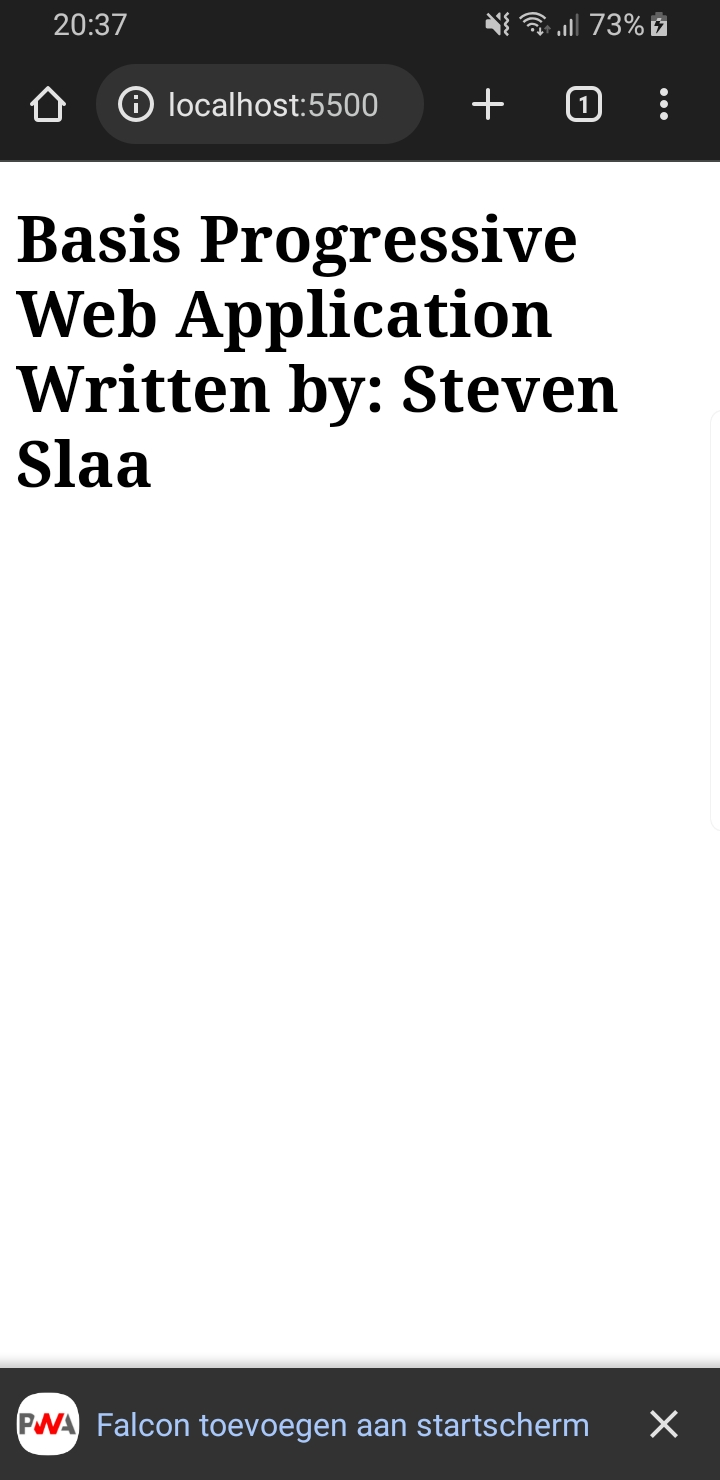
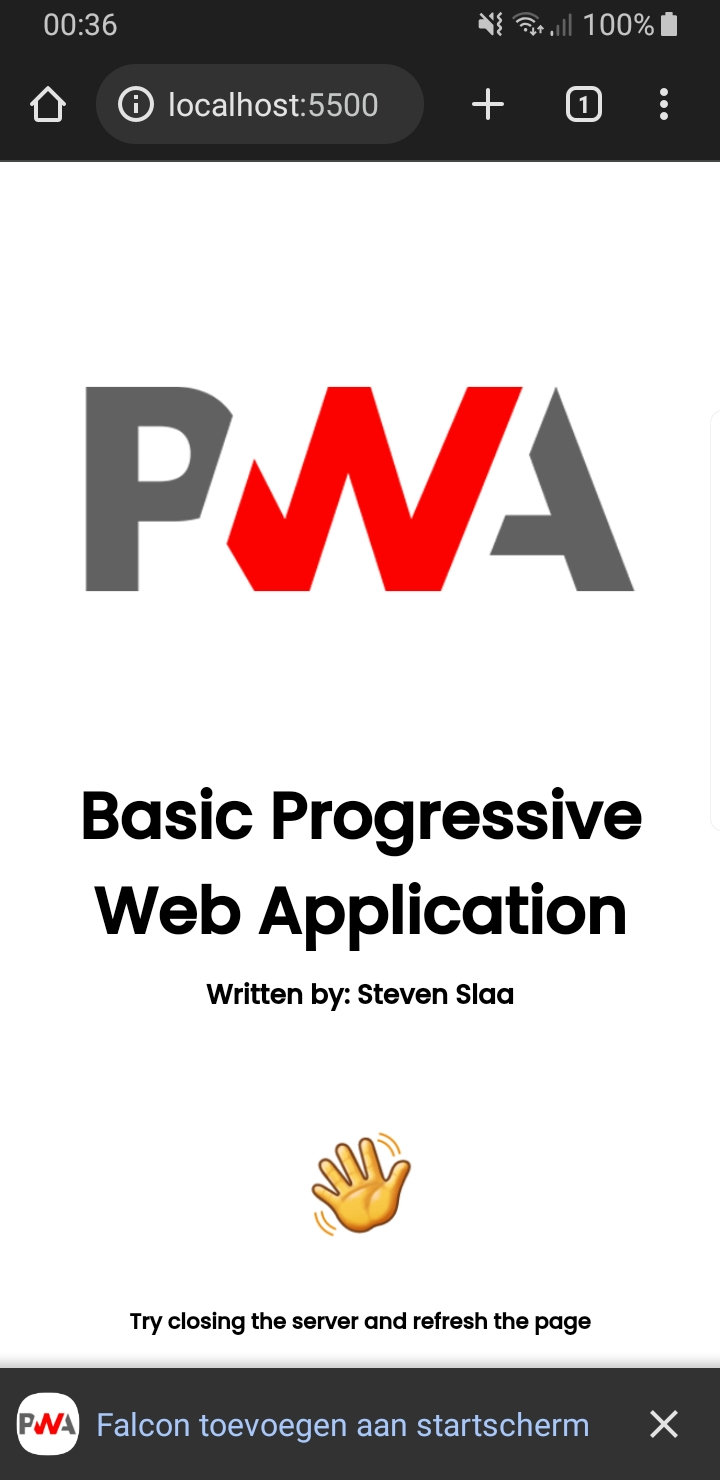
Added more information

diff --git a/sw.js b/sw.js
@@ -1,2 +1,2 @@
-if (!self.define) { let e, s = {}; const a = (a, i) => (a = new URL(a + ".js", i).href, s[a] || new Promise((s => { if ("document" in self) { const e = document.createElement("script"); e.src = a, e.onload = s, document.head.appendChild(e) } else e = a, importScripts(a), s() })).then((() => { let e = s[a]; if (!e) throw new Error(`Module ${a} didn’t register its module`); return e }))); self.define = (i, c) => { const p = e || ("document" in self ? document.currentScript.src : "") || location.href; if (s[p]) return; let o = {}; const l = e => a(e, p), r = { module: { uri: p }, exports: o, require: l }; s[p] = Promise.all(i.map((e => r[e] || l(e)))).then((e => (c(...e), o))) } } define(["./workbox-72b3af16"], (function (e) { "use strict"; self.addEventListener("message", (e => { e.data && "SKIP_WAITING" === e.data.type && self.skipWaiting() })), e.precacheAndRoute([{ url: "assets/styles/app.css", revision: "96e84dd4fd8cff75c4b1eb685b95a2ec" }, { url: "docs/images/Application Menu.png", revision: "6ba4fc9bcb8aa4d1894dc3e48552c75e" }, { url: "docs/images/Chrome Port-forwarding.png", revision: "6d92dc86fcd431d5a03ea21c14d3cd40" }, { url: "docs/images/Lighouse Categories.png", revision: "fd1a9e74952f276f7a05649b989ac5de" }, { url: "docs/images/Live Server Extension.png", revision: "af2ea20f77d29ac3b5ad33423b3d700e" }, { url: "docs/images/logo.png", revision: "bbedb234d84686e7b37068a9786e5f8f" }, { url: "docs/images/screenshot.jpg", revision: "ebe8bdbe953a0a2c964e9a450fed2efb" }, { url: "docs/images/Tutorial Logo.png", revision: "c8f4353523bdc7d73bee7a13738f9dc5" }, { url: "favicon.ico", revision: "c0791f4171c0600f4947b6224ff31884" }, { url: "icons/apple-icon-180.png", revision: "df01347cd4abcd35f699a94fdeda352f" }, { url: "icons/apple-splash-1125-2436.jpg", revision: "efc2579337ed2a003e4d2b385c1ddd24" }, { url: "icons/apple-splash-1136-640.jpg", revision: "d5445c0aaf789529ef60c1f4b2cb7797" }, { url: "icons/apple-splash-1170-2532.jpg", revision: "0f1d0d42a36b23867336b34e7fe0dbdf" }, { url: "icons/apple-splash-1179-2556.jpg", revision: "efa5ad779ec90f14b80ec7c6f96afa8c" }, { url: "icons/apple-splash-1242-2208.jpg", revision: "daa2c0b62f2d85e2652a42d846f7276d" }, { url: "icons/apple-splash-1242-2688.jpg", revision: "aa8858e118f86e169ac487f865044f65" }, { url: "icons/apple-splash-1284-2778.jpg", revision: "71e3e7f680152f6d73f28a64f65c8c5f" }, { url: "icons/apple-splash-1290-2796.jpg", revision: "24539c0bc9bc0dbecf086d0c1215a866" }, { url: "icons/apple-splash-1334-750.jpg", revision: "187920a54a552da67b52e7bf9e724537" }, { url: "icons/apple-splash-1536-2048.jpg", revision: "39ce2fb8acca969b6dceb1e34fcd20f4" }, { url: "icons/apple-splash-1620-2160.jpg", revision: "3e7e17928c4e02d8147350263d7df168" }, { url: "icons/apple-splash-1668-2224.jpg", revision: "faf737cdbf9090c5d8b9a973474cec15" }, { url: "icons/apple-splash-1668-2388.jpg", revision: "a870c6cf675d9b0140e19b4adbec34ac" }, { url: "icons/apple-splash-1792-828.jpg", revision: "da7213183930764a850cfd4a79aab960" }, { url: "icons/apple-splash-2048-1536.jpg", revision: "dd8bb0d6f3d32ea6fca602a1400b7f7e" }, { url: "icons/apple-splash-2048-2732.jpg", revision: "b3a5a96e5573ac25daba34e46b3603a4" }, { url: "icons/apple-splash-2160-1620.jpg", revision: "8b1de33899cd14d2fad11666989784d4" }, { url: "icons/apple-splash-2208-1242.jpg", revision: "e2e480c833bf4f8c55a5284e8be907de" }, { url: "icons/apple-splash-2224-1668.jpg", revision: "aa99d8e0150ca31de18e35f5def717aa" }, { url: "icons/apple-splash-2388-1668.jpg", revision: "4892e2a0c60cb71615185c89509a5f87" }, { url: "icons/apple-splash-2436-1125.jpg", revision: "cef60e1ea80b16c6bd3f2bb8fa074a73" }, { url: "icons/apple-splash-2532-1170.jpg", revision: "7c65c04106fcc8decee0edd6f96fc5c6" }, { url: "icons/apple-splash-2556-1179.jpg", revision: "54e8ef8f496eb398aa6fae9505d99104" }, { url: "icons/apple-splash-2688-1242.jpg", revision: "90d16b203d912a29a9f91961262a159b" }, { url: "icons/apple-splash-2732-2048.jpg", revision: "2ae72d6975e88f6d6ced1859b2ef5d9b" }, { url: "icons/apple-splash-2778-1284.jpg", revision: "e5f78a442d0fd7376470b85caf7499c0" }, { url: "icons/apple-splash-2796-1290.jpg", revision: "e67c3fa5d0a4f70dd2fae0abf6827af6" }, { url: "icons/apple-splash-640-1136.jpg", revision: "15d145bfcf37bf587a15107ef8f09381" }, { url: "icons/apple-splash-750-1334.jpg", revision: "cad971780f15a1181c06159405ea20e5" }, { url: "icons/apple-splash-828-1792.jpg", revision: "71f59b8ee9e97b117ea51384d6c21401" }, { url: "icons/manifest-icon-192.maskable.png", revision: "8338e679aa9d9e479a835ec73ef54c69" }, { url: "icons/manifest-icon-512.maskable.png", revision: "a0ea4ed36d7e5a391c56b2a732d432f7" }, { url: "index.html", revision: "8b8e3a06aaee270faa048cf0b37ef5d4" }, { url: "logo.png", revision: "bbedb234d84686e7b37068a9786e5f8f" }, { url: "manifest.json", revision: "98536d5dc7c73f15fa8e843d91c2a3d3" }, { url: "README.md", revision: "6456b1c8703d23d88c8975231edff655" }, { url: "service-worker.js", revision: "6d90e26c178e45f69bd11cbf439849a1" }], { ignoreURLParametersMatching: [/^utm_/, /^fbclid$/] }) }));
+if(!self.define){let e,s={};const a=(a,i)=>(a=new URL(a+".js",i).href,s[a]||new Promise((s=>{if("document"in self){const e=document.createElement("script");e.src=a,e.onload=s,document.head.appendChild(e)}else e=a,importScripts(a),s()})).then((()=>{let e=s[a];if(!e)throw new Error(`Module ${a} didn’t register its module`);return e})));self.define=(i,c)=>{const p=e||("document"in self?document.currentScript.src:"")||location.href;if(s[p])return;let o={};const l=e=>a(e,p),r={module:{uri:p},exports:o,require:l};s[p]=Promise.all(i.map((e=>r[e]||l(e)))).then((e=>(c(...e),o)))}}define(["./workbox-72b3af16"],(function(e){"use strict";self.addEventListener("message",(e=>{e.data&&"SKIP_WAITING"===e.data.type&&self.skipWaiting()})),e.precacheAndRoute([{url:"assets/styles/app.css",revision:"973177cd57f7c47d12f4b26eb58d6e15"},{url:"docs/images/Application Menu.png",revision:"6ba4fc9bcb8aa4d1894dc3e48552c75e"},{url:"docs/images/Chrome Port-forwarding.png",revision:"6d92dc86fcd431d5a03ea21c14d3cd40"},{url:"docs/images/Lighouse Categories.png",revision:"fd1a9e74952f276f7a05649b989ac5de"},{url:"docs/images/Live Server Extension.png",revision:"af2ea20f77d29ac3b5ad33423b3d700e"},{url:"docs/images/logo.png",revision:"bbedb234d84686e7b37068a9786e5f8f"},{url:"docs/images/screenshot.jpg",revision:"ebe8bdbe953a0a2c964e9a450fed2efb"},{url:"docs/images/Tutorial Logo.png",revision:"c8f4353523bdc7d73bee7a13738f9dc5"},{url:"favicon.ico",revision:"c0791f4171c0600f4947b6224ff31884"},{url:"icons/apple-icon-180.png",revision:"df01347cd4abcd35f699a94fdeda352f"},{url:"icons/apple-splash-1125-2436.jpg",revision:"efc2579337ed2a003e4d2b385c1ddd24"},{url:"icons/apple-splash-1136-640.jpg",revision:"d5445c0aaf789529ef60c1f4b2cb7797"},{url:"icons/apple-splash-1170-2532.jpg",revision:"0f1d0d42a36b23867336b34e7fe0dbdf"},{url:"icons/apple-splash-1179-2556.jpg",revision:"efa5ad779ec90f14b80ec7c6f96afa8c"},{url:"icons/apple-splash-1242-2208.jpg",revision:"daa2c0b62f2d85e2652a42d846f7276d"},{url:"icons/apple-splash-1242-2688.jpg",revision:"aa8858e118f86e169ac487f865044f65"},{url:"icons/apple-splash-1284-2778.jpg",revision:"71e3e7f680152f6d73f28a64f65c8c5f"},{url:"icons/apple-splash-1290-2796.jpg",revision:"24539c0bc9bc0dbecf086d0c1215a866"},{url:"icons/apple-splash-1334-750.jpg",revision:"187920a54a552da67b52e7bf9e724537"},{url:"icons/apple-splash-1536-2048.jpg",revision:"39ce2fb8acca969b6dceb1e34fcd20f4"},{url:"icons/apple-splash-1620-2160.jpg",revision:"3e7e17928c4e02d8147350263d7df168"},{url:"icons/apple-splash-1668-2224.jpg",revision:"faf737cdbf9090c5d8b9a973474cec15"},{url:"icons/apple-splash-1668-2388.jpg",revision:"a870c6cf675d9b0140e19b4adbec34ac"},{url:"icons/apple-splash-1792-828.jpg",revision:"da7213183930764a850cfd4a79aab960"},{url:"icons/apple-splash-2048-1536.jpg",revision:"dd8bb0d6f3d32ea6fca602a1400b7f7e"},{url:"icons/apple-splash-2048-2732.jpg",revision:"b3a5a96e5573ac25daba34e46b3603a4"},{url:"icons/apple-splash-2160-1620.jpg",revision:"8b1de33899cd14d2fad11666989784d4"},{url:"icons/apple-splash-2208-1242.jpg",revision:"e2e480c833bf4f8c55a5284e8be907de"},{url:"icons/apple-splash-2224-1668.jpg",revision:"aa99d8e0150ca31de18e35f5def717aa"},{url:"icons/apple-splash-2388-1668.jpg",revision:"4892e2a0c60cb71615185c89509a5f87"},{url:"icons/apple-splash-2436-1125.jpg",revision:"cef60e1ea80b16c6bd3f2bb8fa074a73"},{url:"icons/apple-splash-2532-1170.jpg",revision:"7c65c04106fcc8decee0edd6f96fc5c6"},{url:"icons/apple-splash-2556-1179.jpg",revision:"54e8ef8f496eb398aa6fae9505d99104"},{url:"icons/apple-splash-2688-1242.jpg",revision:"90d16b203d912a29a9f91961262a159b"},{url:"icons/apple-splash-2732-2048.jpg",revision:"2ae72d6975e88f6d6ced1859b2ef5d9b"},{url:"icons/apple-splash-2778-1284.jpg",revision:"e5f78a442d0fd7376470b85caf7499c0"},{url:"icons/apple-splash-2796-1290.jpg",revision:"e67c3fa5d0a4f70dd2fae0abf6827af6"},{url:"icons/apple-splash-640-1136.jpg",revision:"15d145bfcf37bf587a15107ef8f09381"},{url:"icons/apple-splash-750-1334.jpg",revision:"cad971780f15a1181c06159405ea20e5"},{url:"icons/apple-splash-828-1792.jpg",revision:"71f59b8ee9e97b117ea51384d6c21401"},{url:"icons/manifest-icon-192.maskable.png",revision:"8338e679aa9d9e479a835ec73ef54c69"},{url:"icons/manifest-icon-512.maskable.png",revision:"a0ea4ed36d7e5a391c56b2a732d432f7"},{url:"index.html",revision:"5d8f8f60d0ec6fe8406fbf5c9250b27e"},{url:"logo.png",revision:"bbedb234d84686e7b37068a9786e5f8f"},{url:"manifest.json",revision:"98536d5dc7c73f15fa8e843d91c2a3d3"},{url:"README.md",revision:"4b48a3ead55baa3f46fe04e4915d350c"},{url:"service-worker (basic).js",revision:"6d90e26c178e45f69bd11cbf439849a1"}],{ignoreURLParametersMatching:[/^utm_/,/^fbclid$/]})}));
 //# sourceMappingURL=sw.js.map

diff --git a/assets/styles/app.css b/assets/styles/app.css
@@ -1,5 +1,54 @@
+/* 
+Dit bestand is puur voor het stylen van de elementen en is dus optioneel 
+Wat wel goed is om te weten, is dat dit bestand ook wordt gecached en dus ook werkt wanneer je offline bent ;)
+*/
+
+@import url('https://fonts.googleapis.com/css2?family=Poppins:wght@400;500&display=swap');
+
 * {
     margin: 0;
     padding: 0;
     box-sizing: border-box;
+}
+
+body {
+    font-family: 'Poppins', sans-serif;
+    padding: 24px;
+    display: flex;
+    flex-direction: column;
+    justify-content: center;
+    align-items: center;
+    text-align: center;
+}
+
+#logo{
+    width: 90%;
+    max-width: 400px;
+}
+
+#title{
+    margin-bottom: 8px;
+}
+
+#wave {
+    margin-top: 48px;
+    margin-bottom: 24px;
+    animation-name: wave-animation;
+    animation-duration: 2.5s;
+    animation-iteration-count: infinite;
+    transform-origin: 70% 70%;
+    display: inline-block;
+    font-size: 3rem;
+    
+}
+
+@keyframes wave-animation {
+    0% { transform: rotate( 0.0deg) }
+   10% { transform: rotate(14.0deg) }
+   20% { transform: rotate(-8.0deg) }
+   30% { transform: rotate(14.0deg) }
+   40% { transform: rotate(-4.0deg) }
+   50% { transform: rotate(10.0deg) }
+   60% { transform: rotate( 0.0deg) }
+  100% { transform: rotate( 0.0deg) }
 }

diff --git a/index.html b/index.html
@@ -76,16 +76,20 @@
     <link rel="manifest" href="manifest.json">
     <meta name="theme-color" content="#FF0000"/>
     <!-- Include basic stylesheet (optional) -->
-    <link rel="manifest" href="/assets/styles/app.css">
+    <link rel="stylesheet" href="./assets/styles/app.css">
 </head>
 
 <body>
-    <h1>Basis Progressive Web Application<br/>Written by: Steven Slaa</h1>
+    <img id="logo" alt="logo" src="./logo.png"/>
+    <h1 id="title">Basic Progressive Web Application</h1>
+    <h5>Written by: Steven Slaa</h6>
+    <span id="wave">👋</span>
+    <h6>Try closing the server and refresh the page</h6>
     <!-- root/index.html -->
     <script>
         // Check of de browser service-workers ondersteunt en registereer hem dan
         if ('serviceWorker' in navigator) {
-            navigator.serviceWorker.register('service-worker (basic).js')
+            navigator.serviceWorker.register('sw.js')
         }
     </script>
 </body>

diff --git a/README.md b/README.md
@@ -32,7 +32,7 @@ Eén van de belangrijkste feature van een PWA is het offline laten werken van de
 <script>
     // Check of de browser service-workers ondersteunt en registereer hem dan
     if ('serviceWorker' in navigator) {
-        navigator.serviceWorker.register('/assets/scripts/service-worker.js')
+        navigator.serviceWorker.register('/assets/scripts/sw.js')
     }
 </script>
 ```
@@ -44,12 +44,12 @@ Zodra dit gelukt is, kan je in chrome checken of hij is geregistreerd. Dit kan j
 Wanneer dit is gelukt kan je je code in de `service-worker.js` file schrijven. Je kan ook gebruik maken van een tool genaamd [Workbox](https://developer.chrome.com/docs/workbox) om al het complexe hieraan over te laten. Een enorm basic service-worker script ziet er als volgt uit:
 
 ```javascript
-// root/assets/scripts/service-worker.js
+// root/assets/scripts/service-worker (basic).js
 
 //Importeer Workbox
 importScripts('https://storage.googleapis.com/workbox-cdn/releases/6.4.1/workbox-sw.js');
 
-//Registreer een route van je pagina
+//Registreer een route van je assets
 workbox.routing.registerRoute(
     ({request}) => request.destination === 'image',
     new workbox.strategies.NetworkFirst() //Selecteer een strategy voor het cachen van bestanden
@@ -108,7 +108,7 @@ Clone deze repository and open hem in [Visual Studio Code](https://code.visualst
 
 ![](https://github.com/StevenSlaa/PWA-Basics/blob/main/docs/images/Live%20Server%20Extension.png?raw=true)
 
-Zodra deze is geïnstalleerd verschijnt rechts onderaan in de blauwe balk een knop `Go Live`. Zodra je hierop klikt wordt er een webserver gehost waar je naar toe kan gaan door in de browser te navigeren naar `http://localhost:5500`. Kijk eens rond in de `index.html`, `service-worker.js` en `manifest.json`. Overal staat commentaar bij en probeer hier maar eens mee te experimenteren. 
+Zodra deze is geïnstalleerd verschijnt rechts onderaan in de blauwe balk een knop `Go Live`. Zodra je hierop klikt wordt er een webserver gehost waar je naar toe kan gaan door in de browser te navigeren naar `http://localhost:5500`. Kijk eens rond in de `index.html`, `sw.js` en `manifest.json`. Overal staat commentaar bij en probeer hier maar eens mee te experimenteren. Doordat de server de pagina gecached heeft, kan je nu zelfs de server afsluiten en de pagina opnieuw laden. De service worker detecteerd dat deze pagina eerder is bezocht en heeft hem opgeslagen. Nu stuurt de service worker deze pagina aan jouw, dus hij kan nu zelfs je pagina laden zonder dat de server uberhaubt aan staat!😃
 
 > In dit voorbeeld is de service-worker `sw.js` gegenereerd met behulp van Workbox met de bijbehorende CLI. Je kan deze CLI tool installeren door gebruik te maken van [nodeJS](https://nodejs.org/en/) en het commando `npm install workbox-cli -g`. Dit installeert de workbox CLI. Vervolgens kan je je eigen service worker samenstellen met het commando `workbox wizard` en vervolgens `workbox generateSW workbox-config.js`.
 
